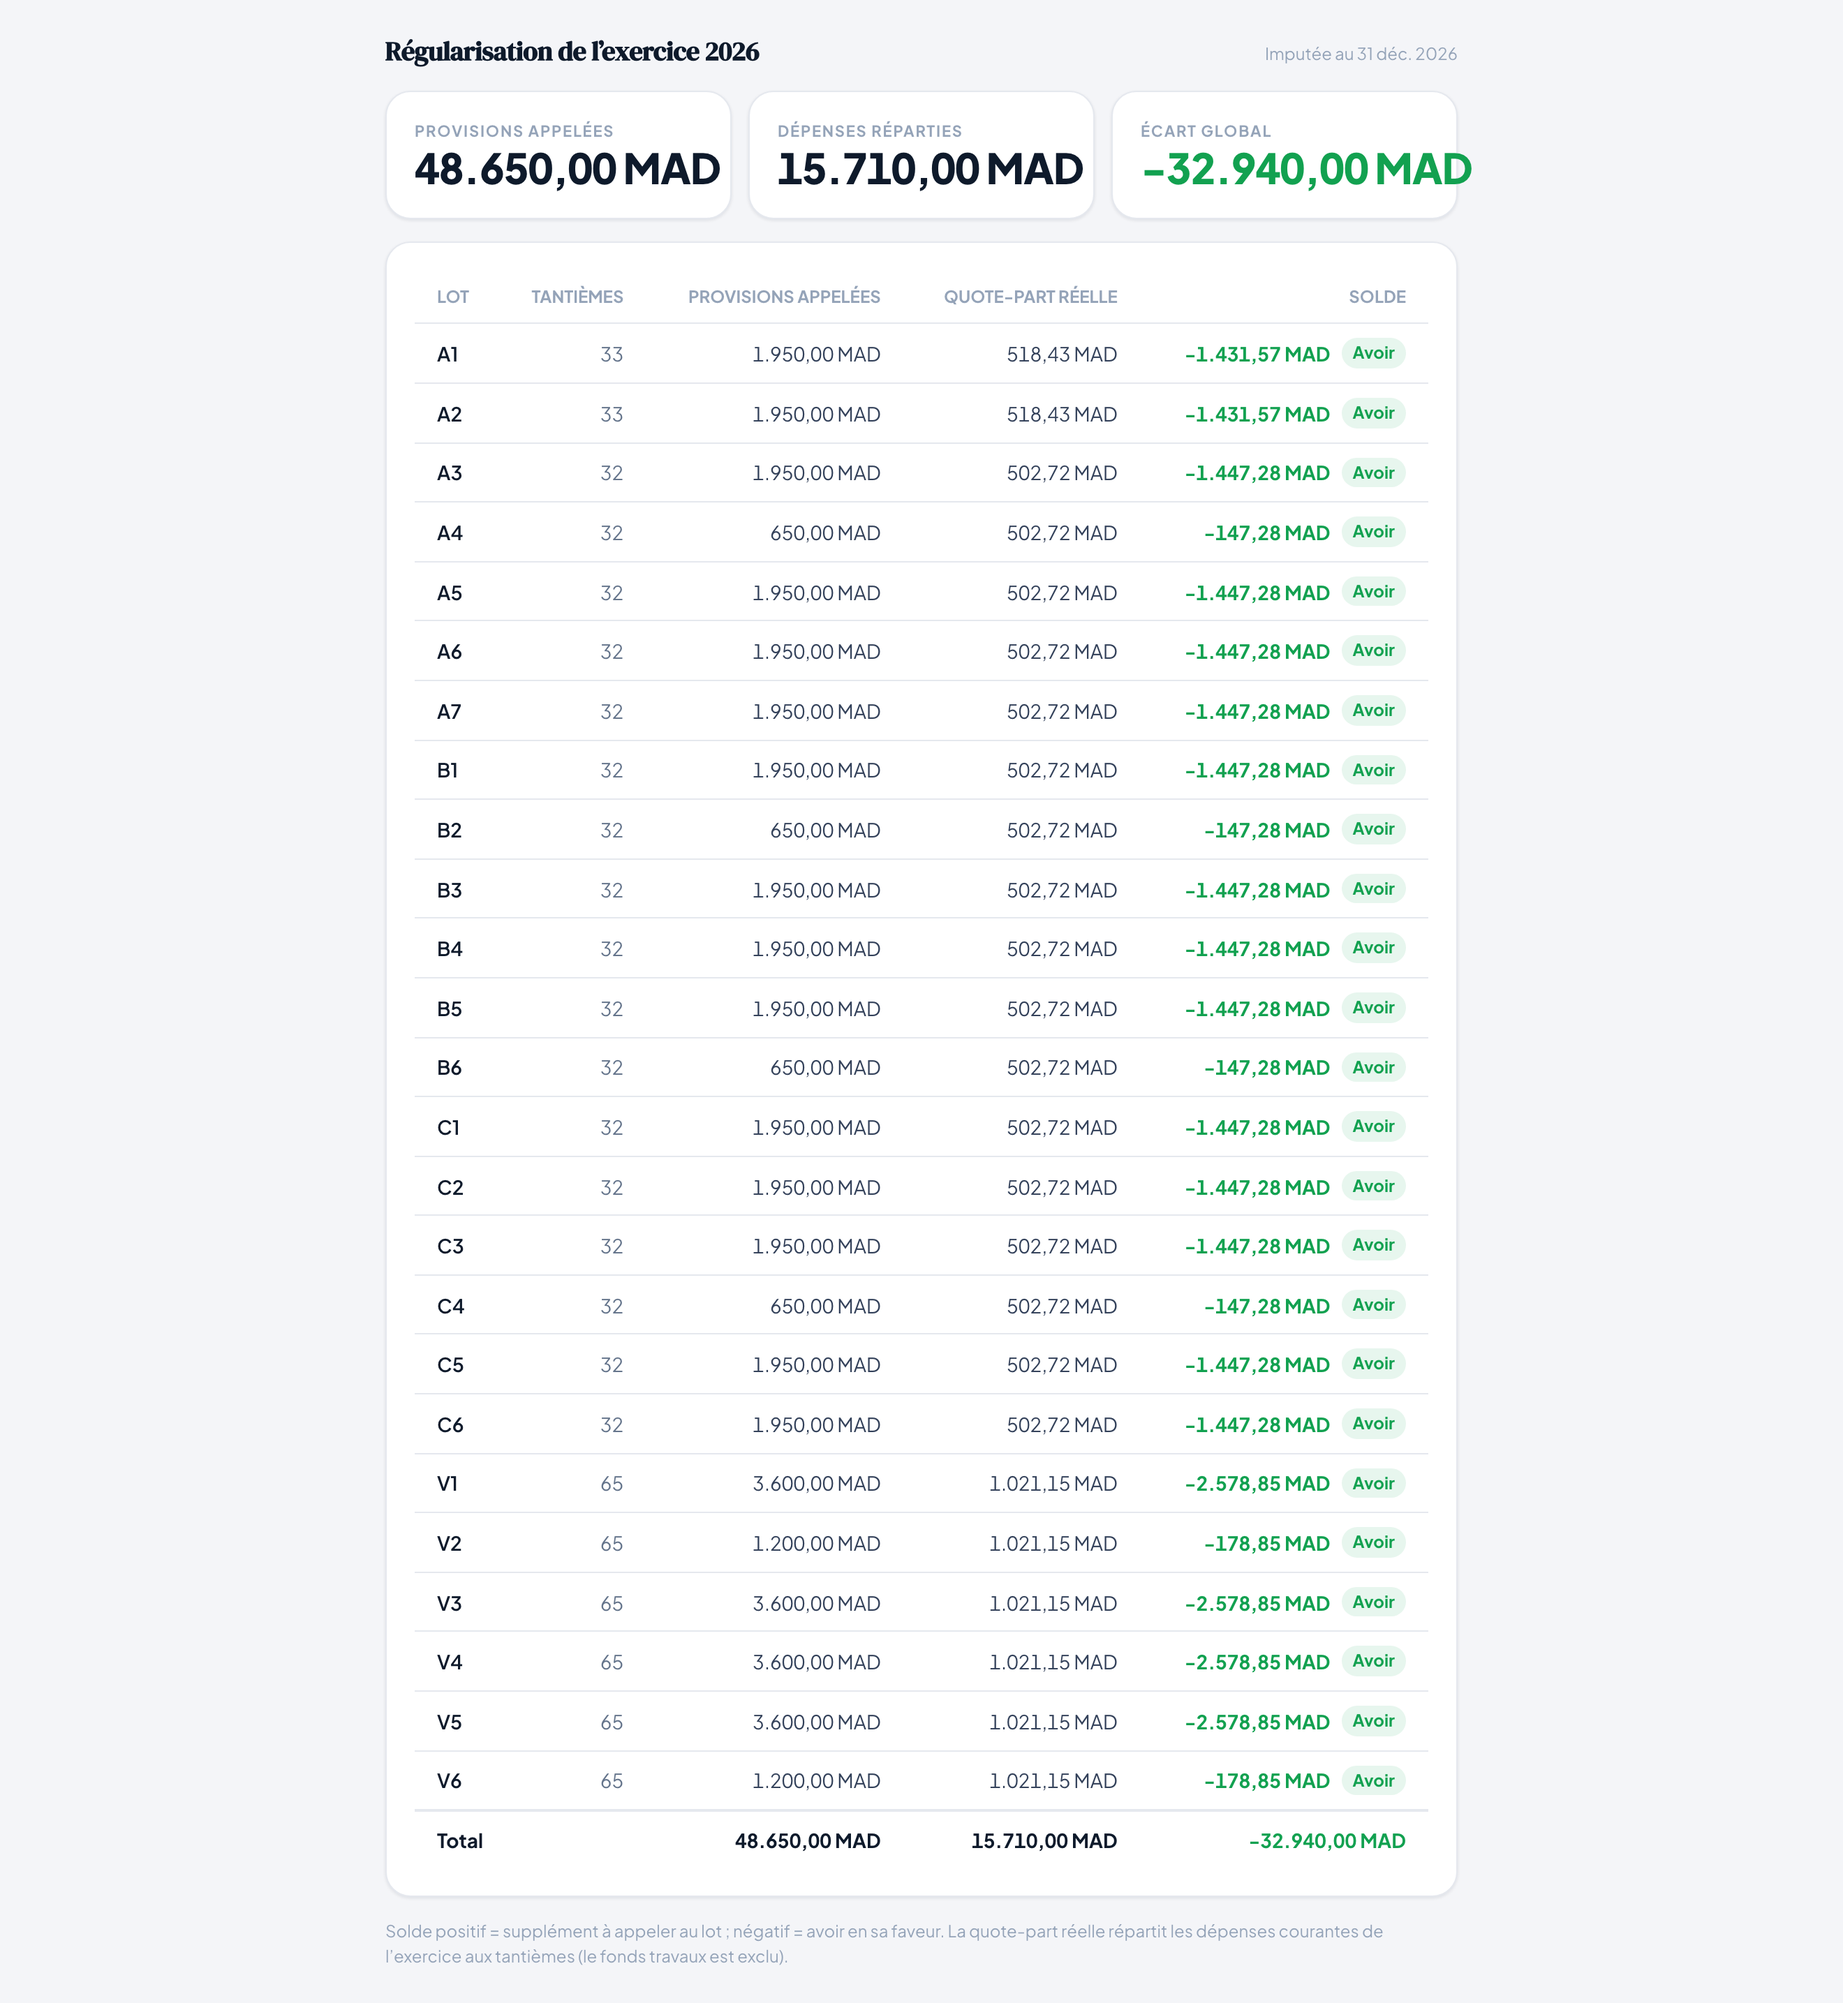
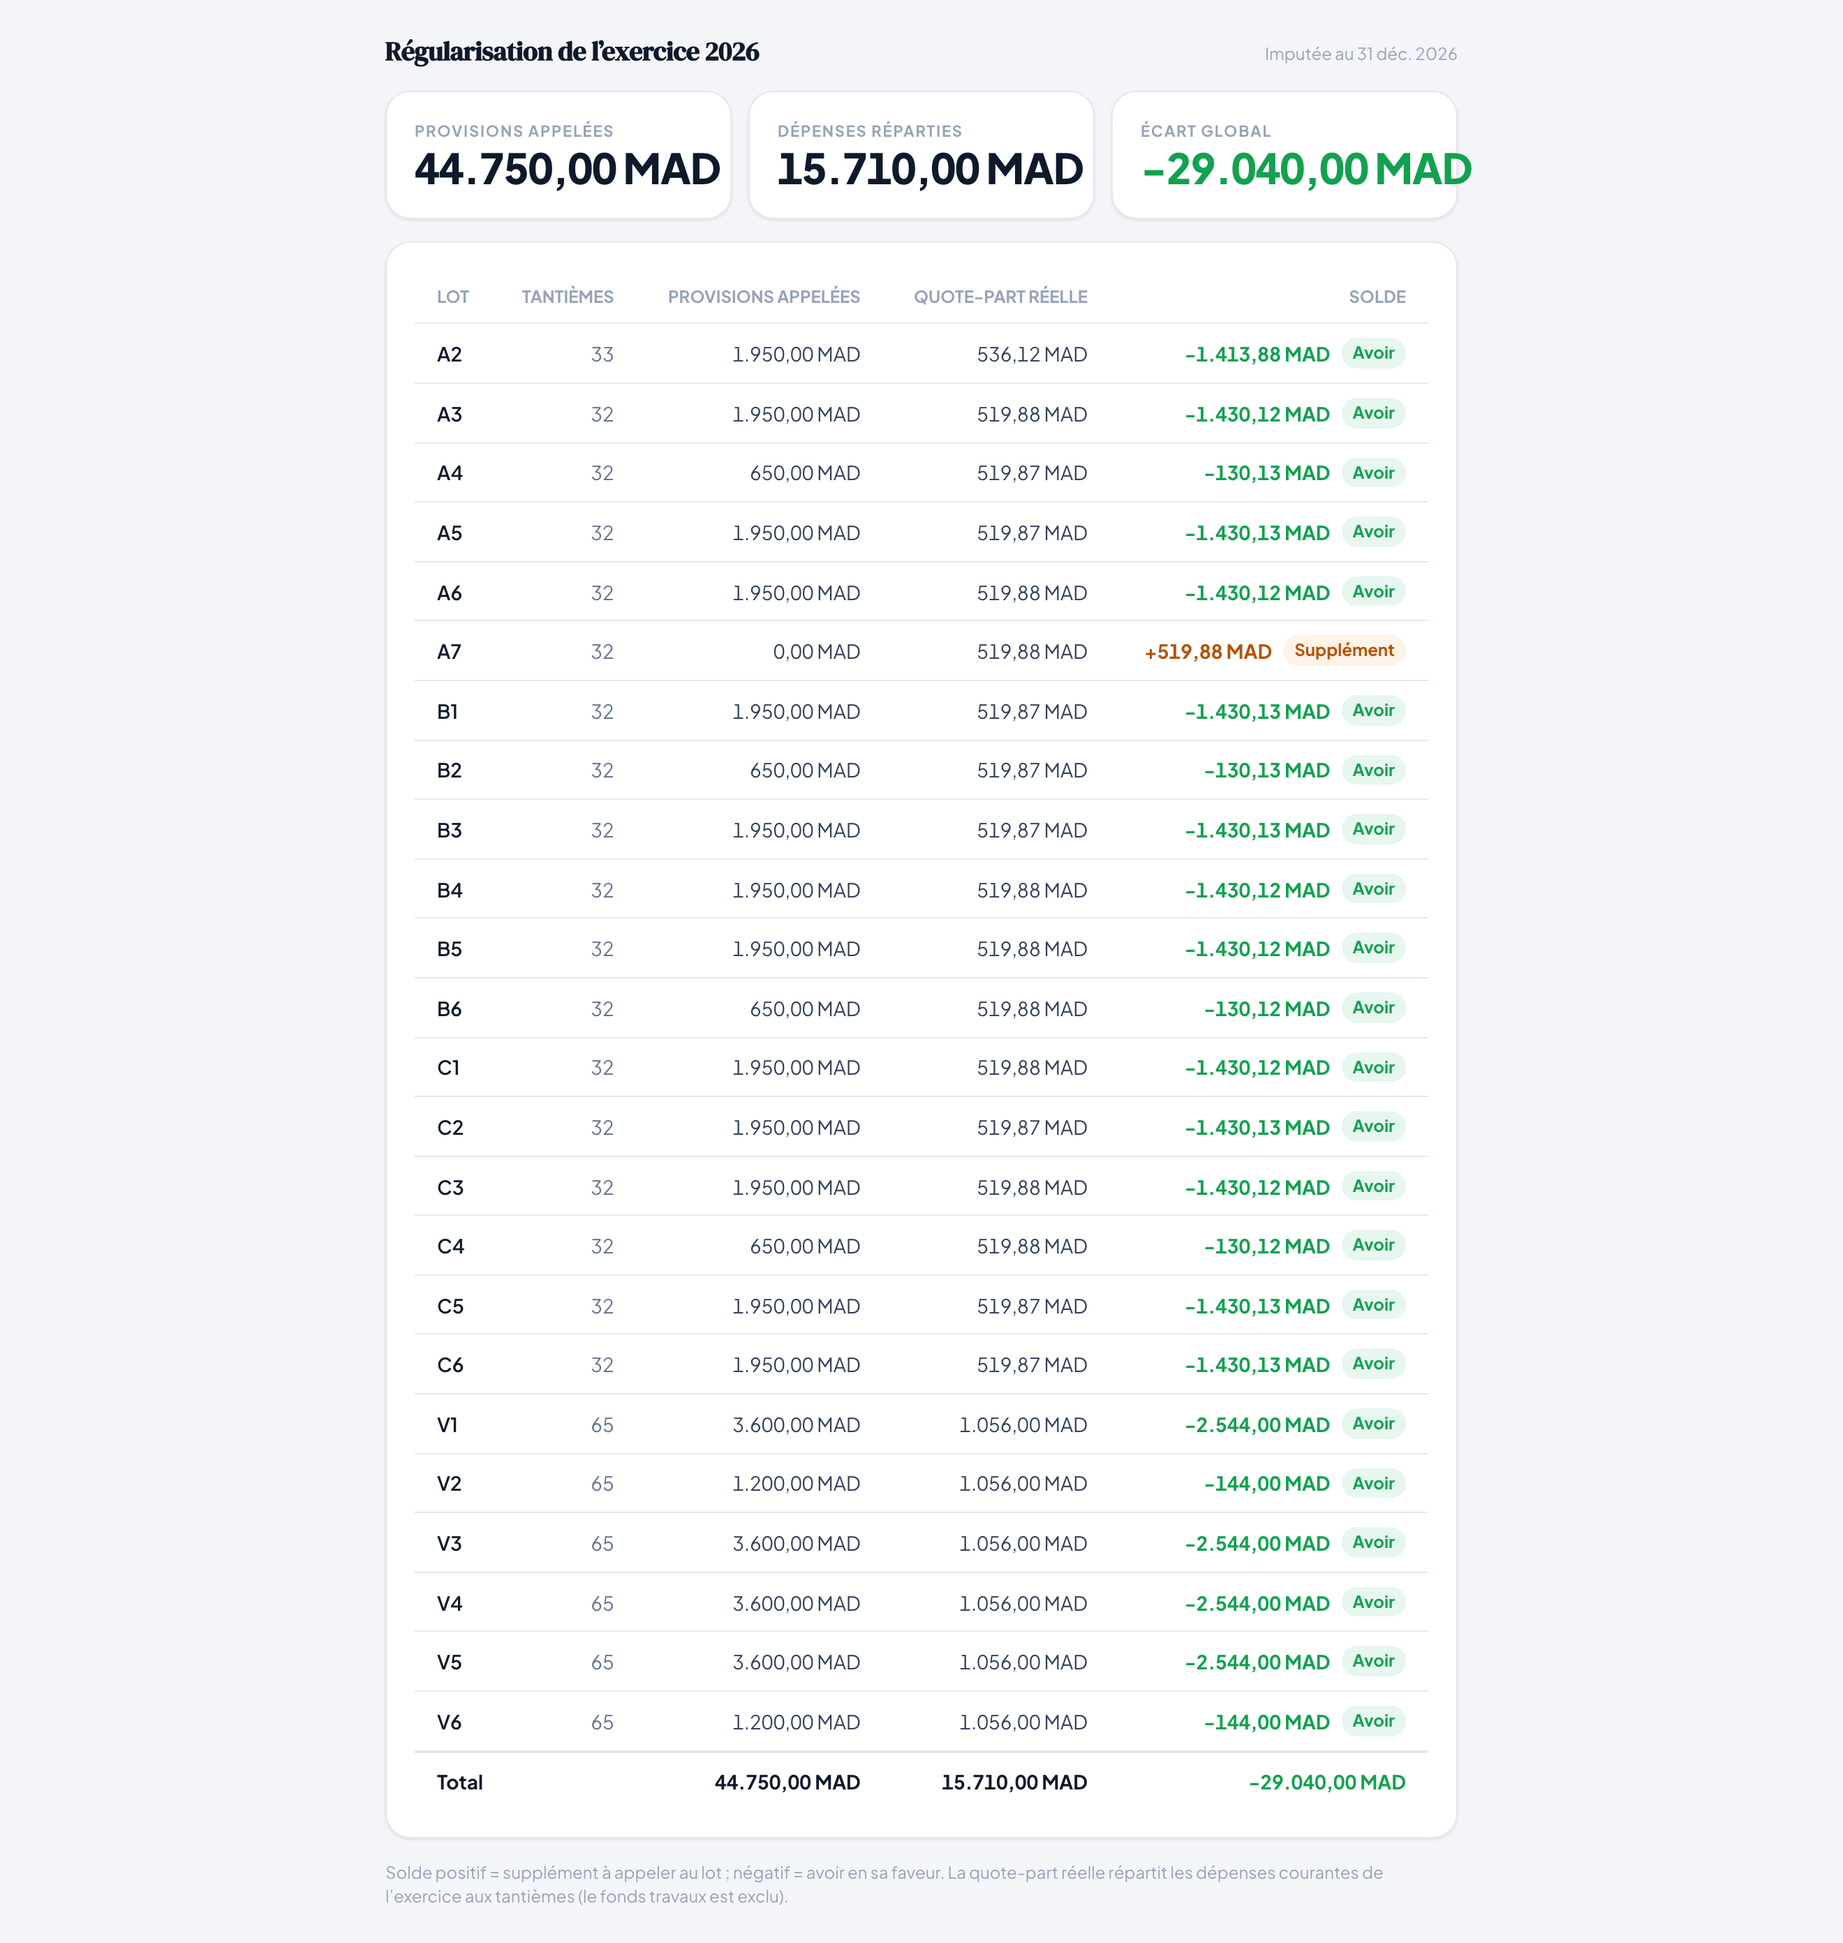
Démo : le compte propriétaire ne détient qu'UN lot (le lot en retard)
Le propriétaire de démonstration détenait deux lots (A1 soldé + A7 en
retard). On n'en garde qu'un : A1, laissé EN RETARD — c'est le lot qui
fait vivre la démo (bouton Payer, frais de retard, relevé avec des
mouvements, attestation de non-dette dans son cas de REFUS). Un lot soldé
ne montrait presque rien.

Scénario du lot unique (A1) :
- juin + juillet réglés, avec leurs reçus (REC-2026-0001/0002) ;
- août (mois en cours) impayé → reste dû 650 ;
- frais de retard automatique 82,50 → solde 732,50 MAD dû.
L'attestation bascule donc dans son cas de refus (« solde de 732,50 MAD
reste dû »).

- A7 redevient un lot vacant, sans occupant : le MÉCANISME multi-lots
  (rattachements, sélecteur de lot masqué si un seul lot via `lots.length
  > 1`) reste en place — un vrai propriétaire pourra en détenir plusieurs.
- Le lot du propriétaire de démo est EXCLU de la régularisation annuelle :
  sinon son gros crédit (dépenses faibles vs provisions) masquait l'arriéré
  et rendait l'attestation « à jour ». La régularisation reste démontrée
  côté syndic et sur les 23 autres lots.

Appliqué au seed de démo ; le jeu de données marketing en dérive (le patch
seed-marketing ne touche pas aux rattachements). Captures d'app régénérées
(sans chrome). Reload prod à faire avec DEMO_SYNDIC_PASSWORD (secret Vercel).

Gate vert : typecheck, lint, lint:css, 361 PGlite, 129 Postgres réel.

diff --git a/prisma/seed.ts b/prisma/seed.ts
@@ -307,9 +307,10 @@ async function main() {
   let lateCount = 0;
   let cashCount = 0;
   const overdueForDunning: Array<{ lotId: string; payerPersonId: string }> = [];
-  // Cas MRE : un propriétaire à l'étranger qui détient DEUX lots (une résidence
-  // secondaire vide en plus de son bien principal). L'annuaire (F2) doit le montrer
-  // une seule fois, avec ses deux lots — jamais en doublon.
+  // Cas MRE : un propriétaire à l'étranger, absent, qui détient UN lot — son bien principal
+  // (A1), laissé EN RETARD (le mois en cours impayé). C'est le compte propriétaire de démo :
+  // un seul lot, mais celui qui fait vivre la démonstration (Payer, frais de retard, relevé,
+  // attestation en cas de refus). Le mécanisme multi-lots reste en place (voir A7 vacant).
   // Id STABLE du propriétaire MRE de démo (comme le syndic de démo) : sa Person garde le
   // MÊME id à chaque reseed, donc le jeton de session d'un propriétaire connecté survit au
   // rechargement des données (voir DECISIONS.md D33).
@@ -318,7 +319,6 @@ async function main() {
   let mreOwnerLotId: string | null = null; // 1er lot du MRE → fil OWNER de démo
   let delegatedLotId: string | null = null; // lot dont les charges sont déléguées au locataire
   let delegatedTenantId: string | null = null; // son locataire → fil TENANT de démo
-  let vacantLotId: string | null = null;
 
   for (const [lotIndex, spec] of specs.entries()) {
     const lot = await prisma.lot.create({
@@ -332,13 +332,13 @@ async function main() {
       },
     });
 
-    // Lot vacant en dur : aucun occupant, aucun appel de charges.
+    // Lot vacant en dur (A7) : aucun occupant, aucun appel de charges. Il reste vacant —
+    // le propriétaire de démo ne détient plus que son bien principal (A1).
     if (!spec.owner) {
-      vacantLotId = lot.id; // réservé au 2e lot du MRE (voir après la boucle).
       continue;
     }
 
-    // Le premier propriétaire à l'étranger sera le MRE multi-lots de démo → id STABLE
+    // Le premier propriétaire à l'étranger sera le MRE, propriétaire de démo → id STABLE
     // (les autres reçoivent un uuid explicite, équivalent au défaut Prisma).
     const isMreOwner: boolean = spec.owner.abroad && mreOwnerId === null;
     const ownerId: string = isMreOwner ? MRE_OWNER_ID : randomUUID();
@@ -365,7 +365,7 @@ async function main() {
         startDate: monthStart(-24),
       },
     });
-    // Premier propriétaire à l'étranger rencontré : ce sera notre MRE multi-lots.
+    // Premier propriétaire à l'étranger rencontré : ce sera notre propriétaire de démo (MRE).
     if (isMreOwner) {
       mreOwnerId = owner.id;
       mreOwnerLotId = lot.id;
@@ -421,7 +421,14 @@ async function main() {
 
       // Montant réglé selon le profil.
       let payAmount = 0;
-      if (spec.profile === 'SETTLED') payAmount = amount;
+      if (isMreOwner) {
+        // Lot UNIQUE du propriétaire de démo : mois précédents réglés (avec reçus), MOIS EN
+        // COURS impayé → reste dû + frais de retard générés plus bas. C'est le lot qui fait
+        // vivre la démo côté propriétaire : bouton Payer, frais de retard, relevé avec des
+        // mouvements, et attestation de non-dette dans son cas de REFUS. Un lot soldé, lui,
+        // ne montrerait presque rien.
+        payAmount = offset === 0 ? 0 : amount;
+      } else if (spec.profile === 'SETTLED') payAmount = amount;
       else if (spec.profile === 'PARTIAL_OVERDUE') {
         if (offset === -2)
           payAmount = amount; // ancien appel soldé (avec reçu)
@@ -466,49 +473,24 @@ async function main() {
         }
       }
     }
-    if (spec.profile === 'SETTLED') paidCount++;
+    if (isMreOwner) lateCount++; // lot de démo : en retard (mois en cours impayé)
+    else if (spec.profile === 'SETTLED') paidCount++;
     else if (spec.profile === 'PARTIAL_OVERDUE') partialCount++;
     else if (spec.profile === 'UNSETTLED_OVERDUE' || spec.profile === 'UNSETTLED_UPCOMING')
       lateCount++;
   }
 
-  // Le MRE prend possession du lot vacant en dur comme seconde propriété : il détient
-  // désormais deux lots et doit apparaître UNE seule fois dans l'annuaire (F2).
-  if (mreOwnerId && vacantLotId) {
-    // Devise secondaire (H5) : le MRE de démo (Bruxelles) raisonne en euros. Les autres
-    // propriétaires restent en dirham (désactivé par défaut).
+  // Le propriétaire de démo ne détient qu'UN SEUL lot (son bien principal A1, laissé EN
+  // RETARD ci-dessus). Le lot vacant en dur (A7) reste SANS occupant : on conserve le
+  // MÉCANISME multi-lots (rattachements, sélecteur de lot) sans le peupler — un vrai
+  // propriétaire pourra détenir plusieurs lots, mais la démo reste lisible (un seul lot →
+  // pas de sélecteur superflu). On garde seulement la devise secondaire du MRE (H5 :
+  // Bruxelles raisonne en euros ; conversion INDICATIVE à côté du dirham).
+  if (mreOwnerId) {
     await prisma.person.update({
       where: { id: mreOwnerId },
       data: { secondaryCurrency: 'EUR' },
     });
-    await prisma.lotAttachment.create({
-      data: {
-        residenceId: residence.id,
-        lotId: vacantLotId,
-        personId: mreOwnerId,
-        role: 'OWNER',
-        isChargePayer: true,
-        startDate: monthStart(-12),
-      },
-    });
-    // A7 EN RETARD : le propriétaire de démo garde A1 soldé mais laisse A7 impayé (bien
-    // secondaire d'un MRE absent). Trois appels échus non réglés → reste dû + frais de
-    // retard générés plus bas. On démontre ainsi la bascule entre lots ET les frais côté
-    // propriétaire, sans faire de Sara une mauvaise payeuse partout.
-    for (const offset of [-2, -1, 0]) {
-      const due = monthStart(offset);
-      await prisma.chargeCall.create({
-        data: {
-          residenceId: residence.id,
-          lotId: vacantLotId,
-          periodYear: due.getUTCFullYear(),
-          periodMonth: due.getUTCMonth() + 1,
-          dueDate: due,
-          amountMinor: CHARGE_APPT,
-        },
-      });
-    }
-    lateCount++;
   }
 
   // Historique de relances (E1) pour la démo : certains impayés déjà relancés une ou deux
@@ -551,8 +533,8 @@ async function main() {
       residenceId: residence.id,
       method: 'VIREMENT',
       amountMinor: { gt: 0 },
-      // Jamais sur un lot du propriétaire de DÉMO : on garde A1 soldé (le reste dû de Sara
-      // vient de A7). L'annulation-démo (B2) atterrit ainsi sur un autre lot.
+      // Jamais sur le lot du propriétaire de DÉMO (A1) : sa situation est déjà scénarisée
+      // (mois en cours impayé + frais de retard). L'annulation-démo (B2) atterrit ailleurs.
       ...(mreOwnerLotId ? { lotId: { not: mreOwnerLotId } } : {}),
     },
     orderBy: { receivedAt: 'desc' },
@@ -1288,13 +1270,22 @@ async function main() {
   }
 
   // ── Régularisation annuelle (I3) — figée sur l'exercice courant pour la démonstration :
-  // provisions appelées vs quote-part réelle des dépenses courantes, écart par lot. Le
-  // propriétaire la voit dans son compte ; le syndic peut l'annuler et la revalider.
+  // provisions appelées vs quote-part réelle des dépenses courantes, écart par lot. Le syndic
+  // peut l'annuler et la revalider ; le propriétaire la verrait dans son compte.
+  // On EXCLUT le lot du propriétaire de démo (A1) : sa régularisation serait un GROS crédit
+  // (dépenses courantes faibles vs provisions appelées) qui masquerait son arriéré et rendrait
+  // son attestation « à jour ». Or la démo veut un débiteur net (mois en cours impayé + frais
+  // de retard) → attestation dans son cas de REFUS, bouton Payer actif. La régularisation
+  // reste pleinement démontrée côté syndic et sur les 23 autres lots.
   {
     const exercice = now.getUTCFullYear();
     const [regLots, regExpenses, regProvisions] = await Promise.all([
       prisma.lot.findMany({
-        where: { residenceId: residence.id, archivedAt: null },
+        where: {
+          residenceId: residence.id,
+          archivedAt: null,
+          ...(mreOwnerLotId ? { id: { not: mreOwnerLotId } } : {}),
+        },
         select: { id: true, reference: true, quotePart: true },
       }),
       prisma.expense.aggregate({
